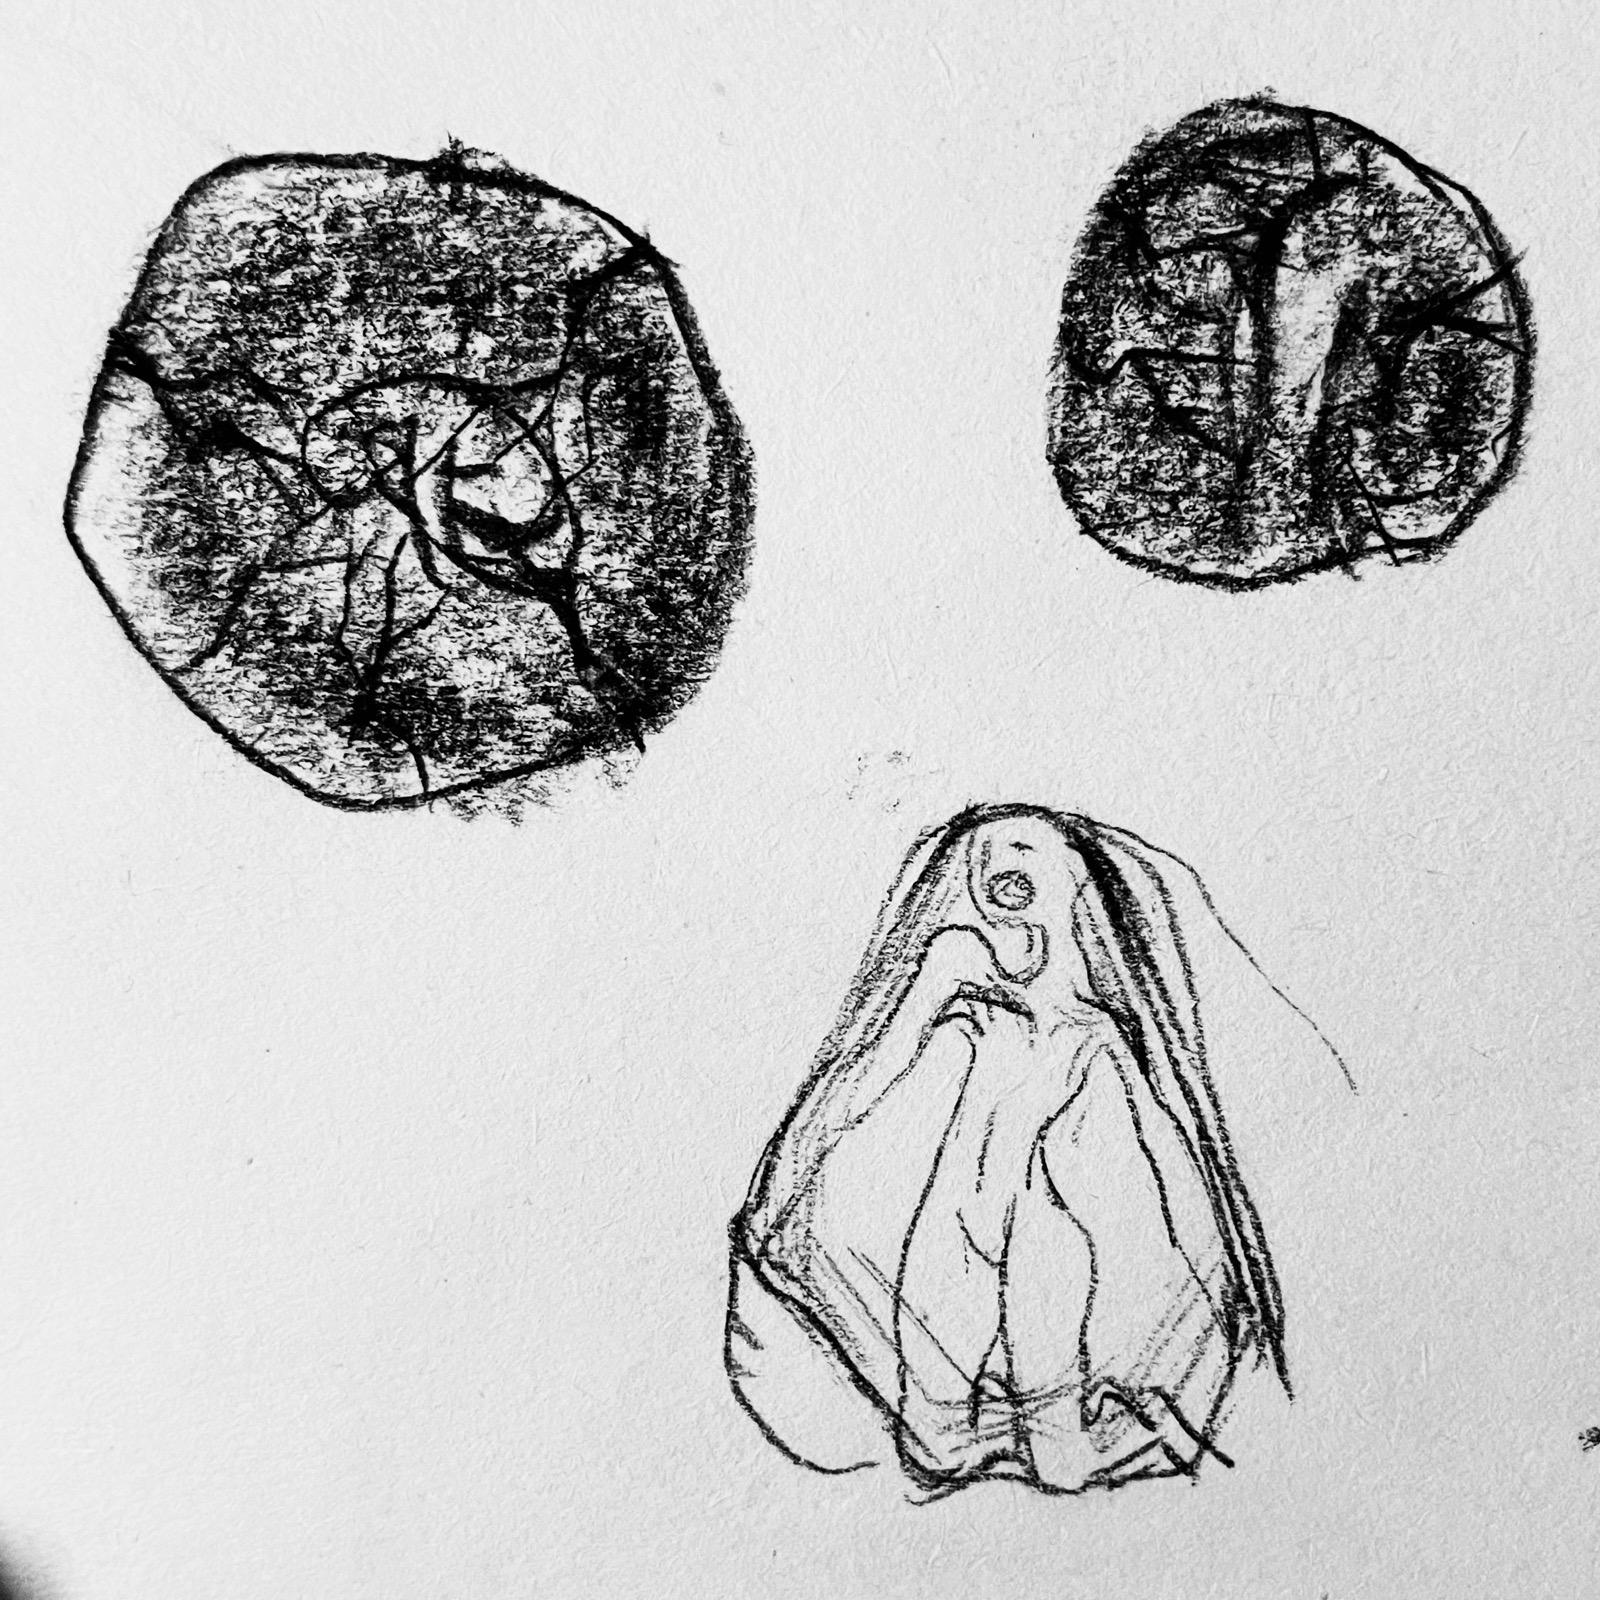
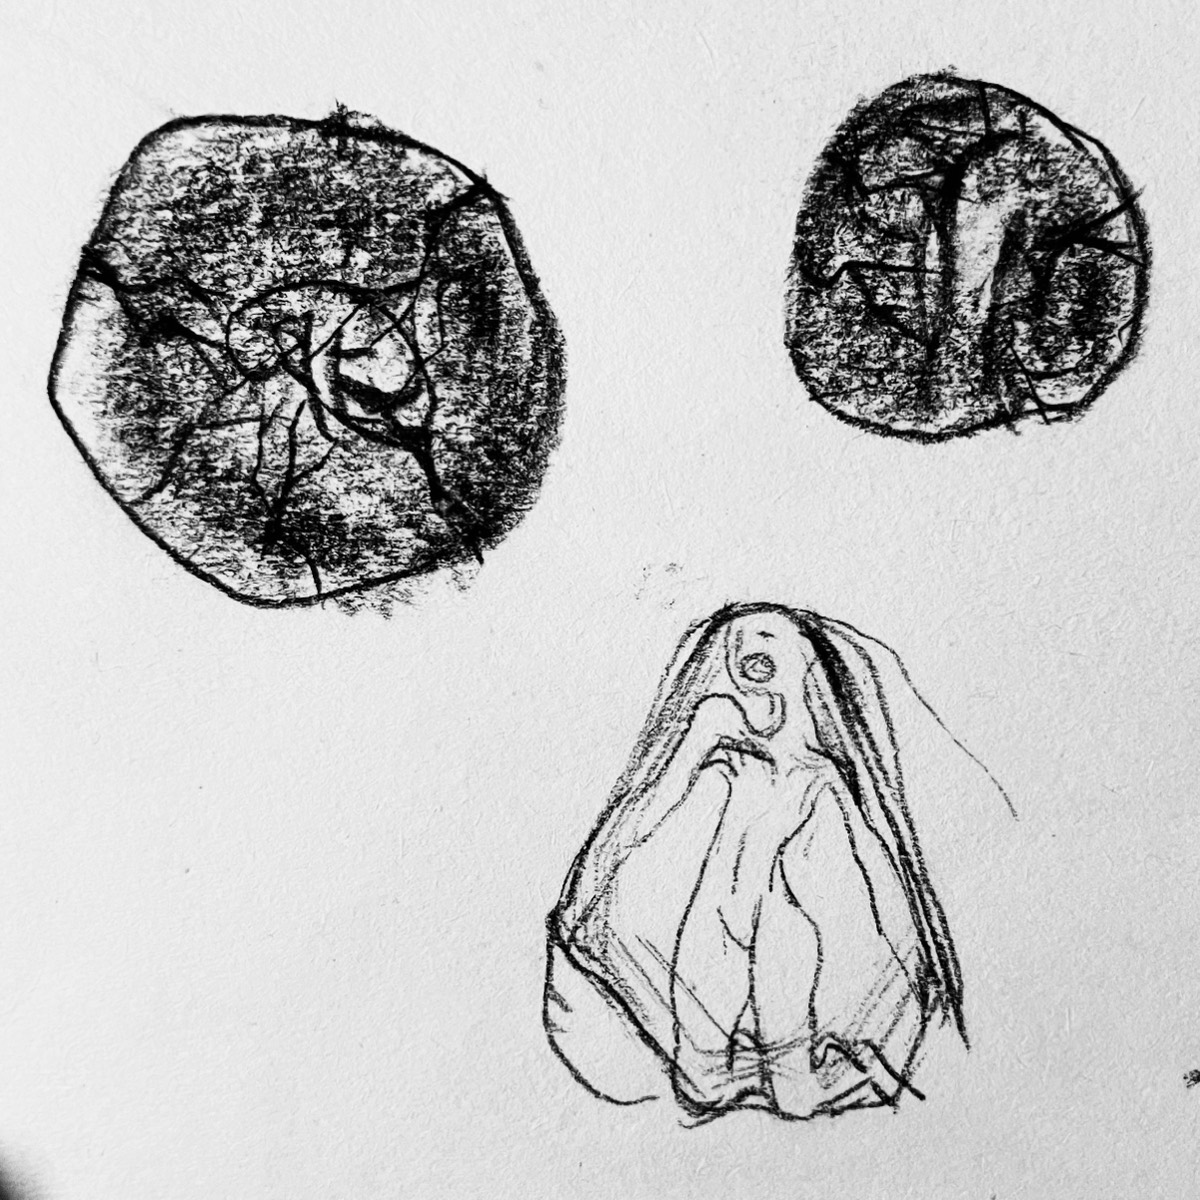
EDEN OF EAST 全量导入（106 张）+ 修正版式规则
发现的问题：原来的规则只看图片数量，结果五个章节全排成了 grid-4
密集网格 —— 包括 D — FINAL OUTPUT，把十二幅主作品压成了跟草稿
一样大的小方块，跟「成品要大、草稿才小」正好相反。

修法：加语义判断。章节名含 FINAL / OUTPUT / OUTCOME / STILL /
PRINT / POSTER / IMPLEMENTATION 的按成品处理，固定两列大图，
且用 2400px 而不是缩略图尺寸。其余仍按数量走。

现在的分层：
  A — SKETCHES              grid-4  20 张
  B — MATERIAL EXPERIMENT   grid-4  24 张
  C — PHOTOGRAPHY           grid-4  16 张
  D — FINAL OUTPUT          grid-2  16 张   ← 大图
  E — TEST BOARD 06         grid-4  18 张

顺带把网格缩略图从 1600px 降到 1200px、质量 76→72。
4 列里每格显示约 270px，1200 仍很宽裕。
单项目 63M → 48M，构建产物 36M → 25M。

封面画廊 12 张实测正常：自动播放、圆点、计数器、contain 不裁切。

diff --git a/tools/import-images.py b/tools/import-images.py
@@ -32,9 +32,9 @@ VIDEO = {".mp4", ".mov", ".m4v", ".avi"}
 
 MARK_OPEN, MARK_CLOSE = "<!-- auto:images -->", "<!-- /auto:images -->"
 
-MAX_EDGE_GRID = 1600     # 网格小图
+MAX_EDGE_GRID = 1200     # 网格小图（4 列里每格约 270px，1200 已很宽裕）
 MAX_EDGE_FULL = 2400     # 通栏大图和封面
-QUALITY = 76
+QUALITY = 72
 
 
 def slugify(name: str) -> str:
@@ -70,8 +70,22 @@ def videos_in(folder: Path):
             if f.is_file() and f.suffix.lower() in VIDEO and not f.name.startswith(".")]
 
 
-def layout_for(n: int) -> str:
-    if n == 1:  return "full"
+# 这些章节放的是成品，不管几张都要大图 —— 只按数量排会把主作品压成缩略图
+FINISHED = ("FINAL", "OUTPUT", "OUTCOME", "STILL", "PRINT", "POSTER",
+            "IMPLEMENTATION", "POSTER COMPOSITION", "POSTER")
+
+
+def is_finished(title: str) -> bool:
+    t = title.upper()
+    return any(k in t for k in FINISHED)
+
+
+def layout_for(n: int, title: str = "") -> str:
+    if n == 1:
+        return "full"
+    # 成品章节最多两列，让画看得清
+    if is_finished(title):
+        return "grid-2"
     if n == 2:  return "grid-2"
     if n == 3:  return "grid-3"
     if n == 4:  return "grid-2"
@@ -80,7 +94,7 @@ def layout_for(n: int) -> str:
 
 
 def block(files, alt_base: str) -> str:
-    cls = layout_for(len(files))
+    cls = layout_for(len(files), alt_base)
     imgs = "\n\n".join(f"![{alt_base} {i+1:02d}](./{f})" for i, f in enumerate(files))
     return f'{MARK_OPEN}\n<div class="{cls}">\n\n{imgs}\n\n</div>\n{MARK_CLOSE}'
 
@@ -209,7 +223,7 @@ def process(project_dir: Path) -> str | None:
         files = sec_images[match]
         base = slugify(title)
         names = []
-        big = len(files) == 1
+        big = len(files) == 1 or is_finished(title)
         for i, f in enumerate(files):
             out = f"{base}-{i+1:02d}.jpg"
             if convert(f, target / out, MAX_EDGE_FULL if big else MAX_EDGE_GRID):

diff --git a/src/content/projects/eden-of-east/index.md b/src/content/projects/eden-of-east/index.md
@@ -17,6 +17,24 @@ gallery:
     alt: EDEN OF EAST 02
   - image: ./hero-03.jpg
     alt: EDEN OF EAST 03
+  - image: ./hero-04.jpg
+    alt: EDEN OF EAST 04
+  - image: ./hero-05.jpg
+    alt: EDEN OF EAST 05
+  - image: ./hero-06.jpg
+    alt: EDEN OF EAST 06
+  - image: ./hero-07.jpg
+    alt: EDEN OF EAST 07
+  - image: ./hero-08.jpg
+    alt: EDEN OF EAST 08
+  - image: ./hero-09.jpg
+    alt: EDEN OF EAST 09
+  - image: ./hero-10.jpg
+    alt: EDEN OF EAST 10
+  - image: ./hero-11.jpg
+    alt: EDEN OF EAST 11
+  - image: ./hero-12.jpg
+    alt: EDEN OF EAST 12
 cover: ./hero-01.jpg
 ---
 
@@ -101,12 +119,104 @@ While working with watercolor, I experimented with various traditional painting
 techniques, including salt scattering, foam texture, and different brush movements,
 to explore new possibilities within this ordinary medium.
 
+<!-- auto:images -->
+<div class="grid-4">
+
+![B — MATERIAL EXPERIMENT 01](./b-material-experiment-01.jpg)
+
+![B — MATERIAL EXPERIMENT 02](./b-material-experiment-02.jpg)
+
+![B — MATERIAL EXPERIMENT 03](./b-material-experiment-03.jpg)
+
+![B — MATERIAL EXPERIMENT 04](./b-material-experiment-04.jpg)
+
+![B — MATERIAL EXPERIMENT 05](./b-material-experiment-05.jpg)
+
+![B — MATERIAL EXPERIMENT 06](./b-material-experiment-06.jpg)
+
+![B — MATERIAL EXPERIMENT 07](./b-material-experiment-07.jpg)
+
+![B — MATERIAL EXPERIMENT 08](./b-material-experiment-08.jpg)
+
+![B — MATERIAL EXPERIMENT 09](./b-material-experiment-09.jpg)
+
+![B — MATERIAL EXPERIMENT 10](./b-material-experiment-10.jpg)
+
+![B — MATERIAL EXPERIMENT 11](./b-material-experiment-11.jpg)
+
+![B — MATERIAL EXPERIMENT 12](./b-material-experiment-12.jpg)
+
+![B — MATERIAL EXPERIMENT 13](./b-material-experiment-13.jpg)
+
+![B — MATERIAL EXPERIMENT 14](./b-material-experiment-14.jpg)
+
+![B — MATERIAL EXPERIMENT 15](./b-material-experiment-15.jpg)
+
+![B — MATERIAL EXPERIMENT 16](./b-material-experiment-16.jpg)
+
+![B — MATERIAL EXPERIMENT 17](./b-material-experiment-17.jpg)
+
+![B — MATERIAL EXPERIMENT 18](./b-material-experiment-18.jpg)
+
+![B — MATERIAL EXPERIMENT 19](./b-material-experiment-19.jpg)
+
+![B — MATERIAL EXPERIMENT 20](./b-material-experiment-20.jpg)
+
+![B — MATERIAL EXPERIMENT 21](./b-material-experiment-21.jpg)
+
+![B — MATERIAL EXPERIMENT 22](./b-material-experiment-22.jpg)
+
+![B — MATERIAL EXPERIMENT 23](./b-material-experiment-23.jpg)
+
+![B — MATERIAL EXPERIMENT 24](./b-material-experiment-24.jpg)
+
+</div>
+<!-- /auto:images -->
+
 ## C — PHOTOGRAPHY
 
 The photographs were taken during my trip to Inner Mongolia, a region in northern
 China that preserves a more traditional lifestyle and landscape. The vast land, harsh
 wind, and rough textures there deeply reflect the essence of Chinese character and
 culture.
+
+<!-- auto:images -->
+<div class="grid-4">
+
+![C — PHOTOGRAPHY 01](./c-photography-01.jpg)
+
+![C — PHOTOGRAPHY 02](./c-photography-02.jpg)
+
+![C — PHOTOGRAPHY 03](./c-photography-03.jpg)
+
+![C — PHOTOGRAPHY 04](./c-photography-04.jpg)
+
+![C — PHOTOGRAPHY 05](./c-photography-05.jpg)
+
+![C — PHOTOGRAPHY 06](./c-photography-06.jpg)
+
+![C — PHOTOGRAPHY 07](./c-photography-07.jpg)
+
+![C — PHOTOGRAPHY 08](./c-photography-08.jpg)
+
+![C — PHOTOGRAPHY 09](./c-photography-09.jpg)
+
+![C — PHOTOGRAPHY 10](./c-photography-10.jpg)
+
+![C — PHOTOGRAPHY 11](./c-photography-11.jpg)
+
+![C — PHOTOGRAPHY 12](./c-photography-12.jpg)
+
+![C — PHOTOGRAPHY 13](./c-photography-13.jpg)
+
+![C — PHOTOGRAPHY 14](./c-photography-14.jpg)
+
+![C — PHOTOGRAPHY 15](./c-photography-15.jpg)
+
+![C — PHOTOGRAPHY 16](./c-photography-16.jpg)
+
+</div>
+<!-- /auto:images -->
 
 ## D — FINAL OUTPUT
 
@@ -126,8 +236,88 @@ the overall color harmony in Photoshop.
 The series seeks to merge traditional craftsmanship, critical reflection, and
 contemporary formal innovation.
 
+<!-- auto:images -->
+<div class="grid-2">
+
+![D — FINAL OUTPUT 01](./d-final-output-01.jpg)
+
+![D — FINAL OUTPUT 02](./d-final-output-02.jpg)
+
+![D — FINAL OUTPUT 03](./d-final-output-03.jpg)
+
+![D — FINAL OUTPUT 04](./d-final-output-04.jpg)
+
+![D — FINAL OUTPUT 05](./d-final-output-05.jpg)
+
+![D — FINAL OUTPUT 06](./d-final-output-06.jpg)
+
+![D — FINAL OUTPUT 07](./d-final-output-07.jpg)
+
+![D — FINAL OUTPUT 08](./d-final-output-08.jpg)
+
+![D — FINAL OUTPUT 09](./d-final-output-09.jpg)
+
+![D — FINAL OUTPUT 10](./d-final-output-10.jpg)
+
+![D — FINAL OUTPUT 11](./d-final-output-11.jpg)
+
+![D — FINAL OUTPUT 12](./d-final-output-12.jpg)
+
+![D — FINAL OUTPUT 13](./d-final-output-13.jpg)
+
+![D — FINAL OUTPUT 14](./d-final-output-14.jpg)
+
+![D — FINAL OUTPUT 15](./d-final-output-15.jpg)
+
+![D — FINAL OUTPUT 16](./d-final-output-16.jpg)
+
+</div>
+<!-- /auto:images -->
+
 ## E — TEST BOARD 06
 
 This book is made by the traditional Chinese way of binding and layout, which means that I
 use simple cotton thread to connect every page. Then I set the proportion of the book as a
 total square, and in this way I can show more sense of form and decoration.
+
+<!-- auto:images -->
+<div class="grid-4">
+
+![E — TEST BOARD 06 01](./e-test-board-06-01.jpg)
+
+![E — TEST BOARD 06 02](./e-test-board-06-02.jpg)
+
+![E — TEST BOARD 06 03](./e-test-board-06-03.jpg)
+
+![E — TEST BOARD 06 04](./e-test-board-06-04.jpg)
+
+![E — TEST BOARD 06 05](./e-test-board-06-05.jpg)
+
+![E — TEST BOARD 06 06](./e-test-board-06-06.jpg)
+
+![E — TEST BOARD 06 07](./e-test-board-06-07.jpg)
+
+![E — TEST BOARD 06 08](./e-test-board-06-08.jpg)
+
+![E — TEST BOARD 06 09](./e-test-board-06-09.jpg)
+
+![E — TEST BOARD 06 10](./e-test-board-06-10.jpg)
+
+![E — TEST BOARD 06 11](./e-test-board-06-11.jpg)
+
+![E — TEST BOARD 06 12](./e-test-board-06-12.jpg)
+
+![E — TEST BOARD 06 13](./e-test-board-06-13.jpg)
+
+![E — TEST BOARD 06 14](./e-test-board-06-14.jpg)
+
+![E — TEST BOARD 06 15](./e-test-board-06-15.jpg)
+
+![E — TEST BOARD 06 16](./e-test-board-06-16.jpg)
+
+![E — TEST BOARD 06 17](./e-test-board-06-17.jpg)
+
+![E — TEST BOARD 06 18](./e-test-board-06-18.jpg)
+
+</div>
+<!-- /auto:images -->
